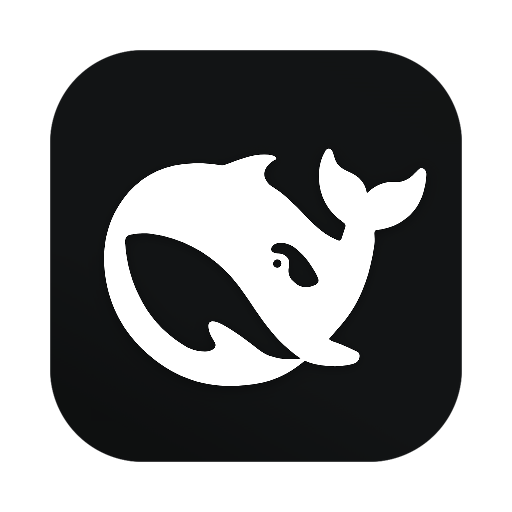
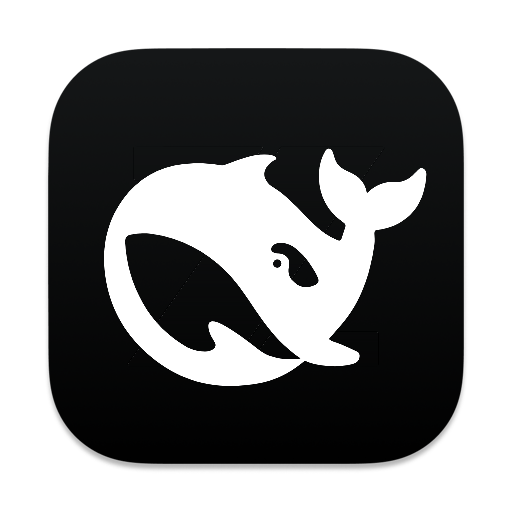
release: 2.3.5 —— 图标像素级对齐 ZCode 设计语言 + 启动画面徽标换新
- 图标底改为 ZCode 官方方块像素级原样（渐变/圆角/边缘不动），抹 Z 字后绘
  Z 字同款纯白 DSH 鲸鱼；DSH 外部投影掩膜排除，边缘 12px 零杂色实测
- 启动画面徽标：56px 内嵌 DSH 官方图标 → 192px 合体图标撑满 96px 壳
  （radius inherit 24px），ZCode 启动语言（pop/边框/阴影/门控三保险）原样
- 活体验证：reload 重播 splash，img 96px/radius 24px/位图 192×192 实测
- design-system 圆角基线 inherit×2 登记

diff --git a/lib/client.js b/lib/client.js
@@ -43,13 +43,16 @@ window.__ModuleLoader__.load({
 .dcu-splash-badge{position:relative;display:flex;width:96px;height:96px;align-items:center;justify-content:center;border-radius:24px;background:linear-gradient(180deg,#000000 0%,#151718 100%);box-shadow:0 20px 25px -5px rgb(0 0 0 / 0.2),0 8px 10px -6px rgb(0 0 0 / 0.2);transform:scale(0.72);opacity:0;animation:dcu-startup-logo-pop 0.72s cubic-bezier(0.22,1,0.36,1) forwards;transform-origin:center}
 /* ZCode 壳自带 1px 白 10% 边框（启动 logo 固定深色底，边框不随浅色主题 token）。 */
 .dcu-splash-badge::before{position:absolute;inset:0;pointer-events:none;content:"";border:1px solid rgba(255,255,255,0.1);border-radius:inherit}
-/* 徽标内是 **DeepSeek Harness 官方图标**（app icon 192px base64，@2x）。 */
-.dcu-splash-badge img{display:block;width:56px;height:56px;border-radius:12px}
+/* 徽标即合体图标本体（自带 ZCode 黑渐变方块与白鲸），撑满壳 96px、圆角与壳一致 24px；
+   壳的渐变被完全覆盖（保留作兜底），白 10% 边框与双层阴影仍在最外圈——ZCode 启动徽标语言不变。 */
+.dcu-splash-badge img{display:block;width:96px;height:96px;border-radius:inherit}
 @keyframes dcu-startup-logo-pop{0%{opacity:0;transform:scale(0.72)}38%{opacity:1;transform:scale(1.045)}58%{transform:scale(0.985)}76%{transform:scale(1.008)}100%{opacity:1;transform:scale(1)}}
 @media (prefers-reduced-motion: reduce){.dcu-splash-badge{opacity:1;transform:scale(1);animation:none}}
 `;
-		/** DeepSeek Harness 官方图标（icon.png 192×192，base64；官方图标即品牌真值）。 */
[1 lines of base64/hex data omitted]
+		/** 徽标图（192×192 base64）：DSH 官方鲸鱼图形 × ZCode 官方黑白（2026-11-07 用户裁决的合体图标）。
+		*  底为 ZCode 官方图标方块像素级原样（垂直渐变 #141617→#020202、圆角、边缘全不动），Z 字抹除后画
+		*  Z 字同款纯白鲸鱼；生成脚本见 CHANGELOG 2.3.5。与 assets/icon.png（512px）同源。 */
[1 lines of base64/hex data omitted]
 		let removed = false;
 		function removeSplash(splash) {
 			if (removed) return;

diff --git a/src/client/startup-splash.ts b/src/client/startup-splash.ts
@@ -34,15 +34,18 @@ const SPLASH_STYLE = `
 .dcu-splash-badge{position:relative;display:flex;width:96px;height:96px;align-items:center;justify-content:center;border-radius:24px;background:linear-gradient(180deg,#000000 0%,#151718 100%);box-shadow:0 20px 25px -5px rgb(0 0 0 / 0.2),0 8px 10px -6px rgb(0 0 0 / 0.2);transform:scale(0.72);opacity:0;animation:dcu-startup-logo-pop 0.72s cubic-bezier(0.22,1,0.36,1) forwards;transform-origin:center}
 /* ZCode 壳自带 1px 白 10% 边框（启动 logo 固定深色底，边框不随浅色主题 token）。 */
 .dcu-splash-badge::before{position:absolute;inset:0;pointer-events:none;content:"";border:1px solid rgba(255,255,255,0.1);border-radius:inherit}
-/* 徽标内是 **DeepSeek Harness 官方图标**（app icon 192px base64，@2x）。 */
-.dcu-splash-badge img{display:block;width:56px;height:56px;border-radius:12px}
+/* 徽标即合体图标本体（自带 ZCode 黑渐变方块与白鲸），撑满壳 96px、圆角与壳一致 24px；
+   壳的渐变被完全覆盖（保留作兜底），白 10% 边框与双层阴影仍在最外圈——ZCode 启动徽标语言不变。 */
+.dcu-splash-badge img{display:block;width:96px;height:96px;border-radius:inherit}
 @keyframes dcu-startup-logo-pop{0%{opacity:0;transform:scale(0.72)}38%{opacity:1;transform:scale(1.045)}58%{transform:scale(0.985)}76%{transform:scale(1.008)}100%{opacity:1;transform:scale(1)}}
 @media (prefers-reduced-motion: reduce){.dcu-splash-badge{opacity:1;transform:scale(1);animation:none}}
 `
 
 
-/** DeepSeek Harness 官方图标（icon.png 192×192，base64；官方图标即品牌真值）。 */
[1 lines of base64/hex data omitted]
+/** 徽标图（192×192 base64）：DSH 官方鲸鱼图形 × ZCode 官方黑白（2026-11-07 用户裁决的合体图标）。
+ *  底为 ZCode 官方图标方块像素级原样（垂直渐变 #141617→#020202、圆角、边缘全不动），Z 字抹除后画
+ *  Z 字同款纯白鲸鱼；生成脚本见 CHANGELOG 2.3.5。与 assets/icon.png（512px）同源。 */
[1 lines of base64/hex data omitted]
 
 let removed = false
 

diff --git a/tests/design-system.assert.ts b/tests/design-system.assert.ts
@@ -225,11 +225,10 @@ const RADIUS_LITERAL_BASELINE: Record<string, number> = {
   'conversation-layout.ts:0': 1,
   // 2026-10-28 启动徽标：96×96 / 圆角 24 —— ZCode 启动页原文值（startup-logo-shell），
   // 是启动层的独立标度，不属于应用内圆角标度管辖（该层在应用就绪前播放）。
-  // inherit = ::before 边框继承壳圆角（ZCode 原文）；12px = 官方 app icon 自带圆角的
-  // 兜底（图标位图自带圆角，此处仅在位图圆角被裁切时兜底）。
+  // 2026-11-07（2.3.5）：徽标内嵌图换成合体图标（DSH 鲸 × ZCode 黑白）并撑满壳——
+  // img 圆角走 inherit（继承壳 24px，与 ::before 同法）；12px 兜底随旧 56px 图标一起移除。
   'startup-splash.ts:24px': 1,
-  'startup-splash.ts:inherit': 1,
-  'startup-splash.ts:12px': 1,
+  'startup-splash.ts:inherit': 2,
 }
 const radiusLiterals = new Map<string, number>()
 for (const { name, text } of clientFiles) {

diff --git a/CHANGELOG.md b/CHANGELOG.md
@@ -4,6 +4,14 @@
 
 Releases of **dsh-zcode-ui**. This package is a fork of [dsh-codex-ui](https://github.com/MichengAI/dsh-codex-ui)@1.1.34; the full upstream history up to that version lives in [docs/UPSTREAM-CHANGELOG.md](docs/UPSTREAM-CHANGELOG.md).
 
+## 2.3.5 - 2026-11-07
+
+**Icon design language now aligned with ZCode at the pixel level; the boot splash badge follows.**
+
+- The tile is now the official ZCode icon **kept pixel-exact** (vertical gradient `#141617→#020202`, continuous corner radius, edge antialiasing untouched — the previous build rebuilt the tile by luminance mapping and inherited the DSH tile's texture). Method: erase the Z glyph from the ZCode original, then paint the DSH whale in glyph pure white `#ffffff`; the DSH icon's outer drop shadow (alpha<200) is masked out — zero stray bright pixels within 12px of the edge, measured.
+- **The boot splash badge** (the icon shown while DSH loads) switches from "black shell with a 56px DSH icon inset" to the merged icon itself: a 192px @2x bitmap filling the 96px badge shell, radius inheriting the shell (24px). The ZCode splash language is unchanged (0.72s elastic pop, 1px white-10% border, dual shadows, frosted-glass overlay, the 3s hard-cap tri-guard). Live-verified: reload replay shows img 96px / radius 24px / 192×192 bitmap.
+- design-system radius-literal baseline updated (inherit ×2, reason inline).
+
 ## 2.3.4 - 2026-11-07
 
 **Icon redesign: the official DeepSeek Harness whale × the official ZCode black & white.**

diff --git a/CHANGELOG.zh-CN.md b/CHANGELOG.zh-CN.md
@@ -4,6 +4,14 @@
 
 **dsh-zcode-ui** 的发布日志。本包 fork 自 [dsh-codex-ui](https://github.com/MichengAI/dsh-codex-ui)@1.1.34，上游在该版本之前的完整历史见 [docs/UPSTREAM-CHANGELOG.zh-CN.md](docs/UPSTREAM-CHANGELOG.zh-CN.md)。
 
+## 2.3.5 - 2026-11-07
+
+**图标设计语言彻底对齐 ZCode，启动画面徽标同步换新。**
+
+- 图标底改为 **ZCode 官方方块像素级原样**（垂直渐变 `#141617→#020202`、连续圆角、边缘抗锯齿全部不动——上一版为亮度映射重建，渐变纹理继承了 DSH 原底白分布）。实现：ZCode 原图抹除 Z 字后，以 Z 字同款纯白 `#ffffff` 绘制 DSH 鲸鱼；DSH 原图标的外部投影（alpha<200 淡黑）经掩膜排除，边缘 12px 实测零杂色。
+- **启动画面徽标**（开机加载弹出的图标）从「黑壳内嵌 56px DSH 官方图标」改为合体图标本体：192px @2x 位图撑满 96px 徽标壳、圆角随壳（inherit 24px）；ZCode 启动语言原样保留（0.72s 弹性 pop、白 10% 边框、双层阴影、毛玻璃遮罩、3s 硬上限门控三保险）。活体验证：reload 重播 splash 实测 img 96px/radius 24px/位图 192×192。
+- design-system 圆角字面量基线同步登记（inherit ×2，理由随注）。
+
 ## 2.3.4 - 2026-11-07
 
 **图标再设计：DeepSeek Harness 官方鲸鱼图形 × ZCode 官方黑白。**
